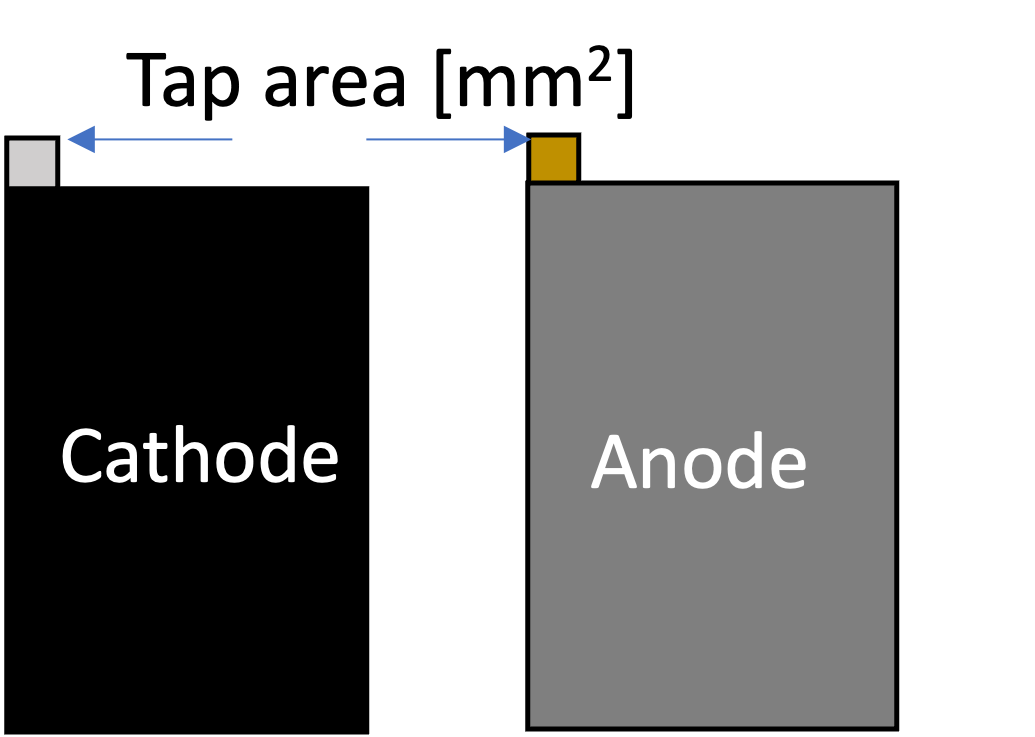
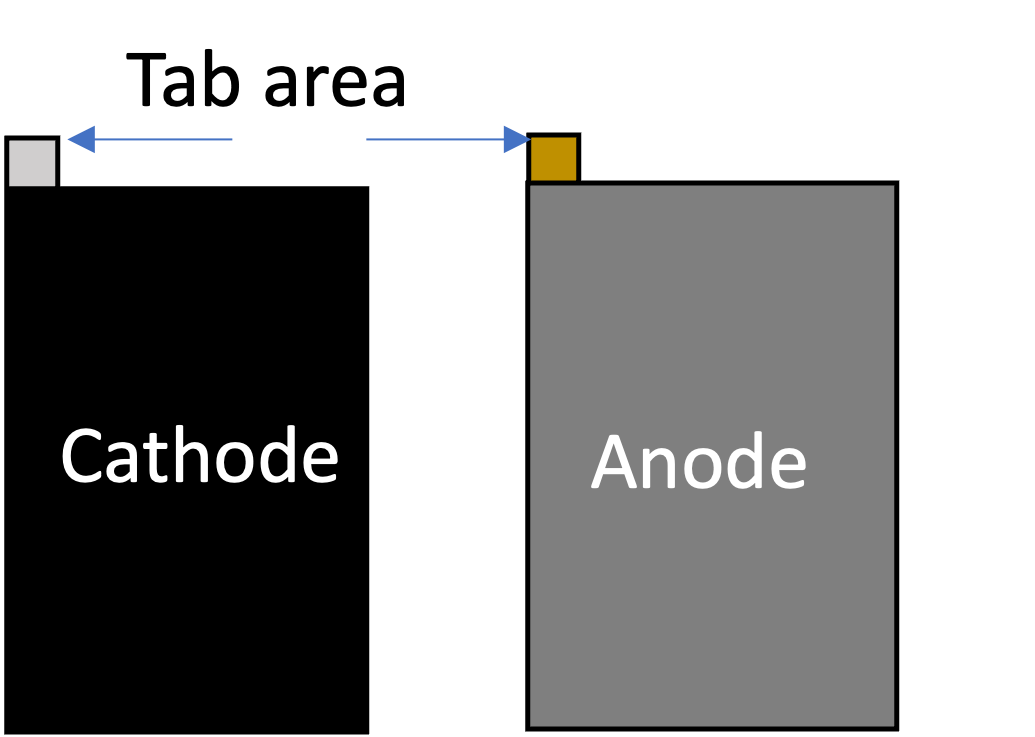
correct errors and grammers in stacking calculation

Changed region(s): [[0.4019, 0.0624, 0.6184, 0.156], [0.1855, 0.1248, 0.2164, 0.156], [0.1855, 0.0624, 0.2164, 0.0936]]

diff --git a/pages/Modeling-cell.py b/pages/Modeling-cell.py
@@ -132,9 +132,7 @@ tab2= dbc.Container([
                             dcc.Input(id="area_tap", type="number", value='25', step='1.0', style={"margin-bottom":"1em"}) ]),
                         html.Div([html.P(['Total seperator weight [g]'], style={"height": "auto", "margin-bottom": "auto"}),
                             dcc.Input(id="S_w", type="number", value='0.5', step='0.1', style={"margin-bottom":"1em"}) ]),
-                        html.Div(html.Img(src='https://www.dropbox.com/scl/fi/qab6gy9e43yrhvadtrmhj/tab_area.png?rlkey=vios1tjbo9k6oyee9uljgu1ql&st=9bigxpq8&raw=1',style={"width":"80%","display":"block","margin":"auto"}),
-                                 ),              
-
+           
                         ],
                     style={'textAlign':'left'},
                     ),
@@ -147,7 +145,7 @@ tab2= dbc.Container([
         dbc.Col([
             html.H6('Type of stacked layer and its unit:'),
             dcc.Dropdown({ 't1': 'Type1','t2':'Type2','t3':'Type3'}, value="t1",id='stacktype', 
-                         clearable=False, style={"height": "auto","width":"150px", "margin-bottom": "auto"}),
+                         clearable=False, style={"height": "auto","width":"150px", "margin-bottom": "auto","margin-top":"30px"}),
 
             html.Div( html.Img(src='https://www.dropbox.com/scl/fi/t0l93yiboq194etmscnvu/stack_type.png?rlkey=r4fuiabrdlqtl7rxvqnqokd6e&st=za7if4yl&raw=1', style={"width":"100%", "display": "block", "margin": "auto"}), 
                 ),
@@ -159,7 +157,7 @@ tab2= dbc.Container([
 
             html.Div([html.P(['Sum of other package weight [g]',html.Sup("*1")], style={"height": "auto", "margin-bottom": "auto"}),
                 dcc.Input(id="other_packageweight", type="number", value='1.1', step='0.1', style={"margin-bottom":"1em"}) ]),
-            html.Div([html.P('Nominal Cell voltage [V]', style={"height": "auto", "margin-bottom": "auto"}), 
+            html.Div([html.P('Nominal cell voltage [V]', style={"height": "auto", "margin-bottom": "auto"}), 
                 dcc.Input(id="nom_v", type="number", value='3.7', step='0.1', style={"margin-bottom":"1em"}) ]),
             html.Div([html.P('Number of stacked layer', style={"height": "auto", "margin-bottom": "auto"}),
                 dcc.Input(id="stacked_layer", type="number", value='7', step='1', style={"margin-bottom":"1em"}) ]),    
@@ -178,19 +176,19 @@ tab2= dbc.Container([
                 xs=6, sm=6, md=6, lg=3, xl=3,
             ),
     ]),
-        dcc.Markdown("*1 Sum of other package weight include the total weight of tabs and packaging case."),
-        dcc.Markdown("*2 If the total cell capacity is insufficient to include the electrolyte weight in the total cell weight to reach the target energy density, this target energy density is reset according to EC ratio = 1.3 (g/Ah)(refereced Panasonic 18650B EC ratio)."),
+        dcc.Markdown("*1 A sum of other package weights includes the total weight of tabs and the packaging case."),
+        dcc.Markdown("*2 If the total cell capacity is insufficient to include the electrolyte weight in the total cell weight to reach the target energy density, this target energy density is reset according to EC ratio = 1.3 (g/Ah)(referenced Panasonic 18650B EC ratio)."),
         dbc.Row([
 
             dbc.Col([
-                html.H5("The weight distributions", style={'textAlign':'center','font-weight':'bold'}),
+                html.H5("Weight distribution of different cell components", style={'textAlign':'center','font-weight':'bold'}),
                 dcc.Graph(id='pie1', style={"width":"100%", "height":"50vh","margin-top":"30px"})
                 ],
-            width={"size":"6"},xs=12, sm=12, md=12, lg=6, xl=6,                    
+            width={"size":"6"},xs=12, sm=12, md=12, lg=5, xl=5,                    
             ),
             dbc.Col([    
-                html.H5(" Energy Density vs Amoung of Electrolyte", style={'textAlign':'center','font-weight':'bold'}),
-                dcc.Graph(id='ed_plot', style={"width":"100%", "height":"50vh","margin-top":"30px"})
+                html.H5(" Energy Density vs Amount of Electrolyte", style={'textAlign':'center','font-weight':'bold'}),
+                dcc.Graph(id='ed_plot', style={"width":"100%","height":"50vh","margin-top":"30px", "margin-bottom":"30px"})
                 ],width={"size":"6"},xs=12, sm=12, md=12, lg=6, xl=6,
             ),
         ],style=({'textAlign':'justify', 'margin-left':'30px', 'margin-right':'30px','margin-top':'30px'}),),
@@ -613,27 +611,30 @@ def cell_energy_densit(c_ed, c_et, c_amlr, c_pcam, c_ea, a_ed, a_et, a_amlr, a_p
     total_weight = [cell_w_cath,cell_w_anode,w_Al,w_Cu,S_w,w_electrolyte,other_packageweight];
     w_idx=['Cathode','Anode','Al-foil','Cu-foil','Separator','Electrolyte','Others'];   
 
-    weight_data = pd.DataFrame({'PM':w_idx, 'weight':total_weight})
+    weight_data = pd.DataFrame({'component':w_idx, 'weight [g]':total_weight})
 
      # make outputs
-    pfig=px.pie(weight_data, values=weight_data['weight'], names=weight_data['PM'])
+    pfig=px.pie(weight_data, values=weight_data['weight [g]'],hole=.3, names=weight_data['component'])
+
     
     pfig.update_layout(
         plot_bgcolor='rgba(0,0,0,0)',
         paper_bgcolor='rgba(0,0,0,0)',
         font=dict(
             family="arial, monospace",
-            size=16,
+            size=14,
             color="black"
         ),
+        margin=dict(t=0,b=0,l=0,r=0)
 
     )
+
 
     fig1.update_layout(
         plot_bgcolor='rgb(234, 228, 228)',
         paper_bgcolor='rgb(211, 211, 211)',
         xaxis_title="Amount of Electrolyte [g]",
-        yaxis_title="Energy Density [Ah/kg]",
+        yaxis_title="Energy Density [Wh/kg]",
         font=dict(
             family="arial, monospace",
             size=16,
@@ -647,7 +648,7 @@ def cell_energy_densit(c_ed, c_et, c_amlr, c_pcam, c_ea, a_ed, a_et, a_amlr, a_p
     NP_ratio = areal_cap_anode/areal_cap_cath
 
         # For summary table
-    s_index = ['Cell Capacity[Ah]','Energy [Wh]', 'NP ratio','EC ratio [g/Ah]','No. Al-foil','No. Cu-foil', 'No. electrode']
+    s_index = ['Cell Capacity[Ah]','Energy [Wh]', 'NP ratio','EC ratio [g/Ah]','No. Al-foil','No. Cu-foil', 'No. single side electrode']
     summary_data=[round(cell_cap,2),round(cell_energy,2),round(NP_ratio,2), EC, N_al, N_cu, N_ed]
     st = pd.DataFrame({"Parameters":s_index,"Results":summary_data})
 
